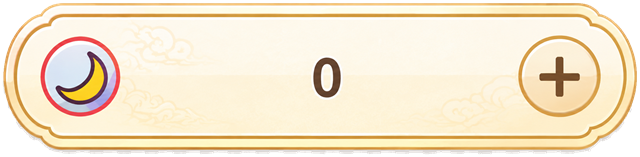
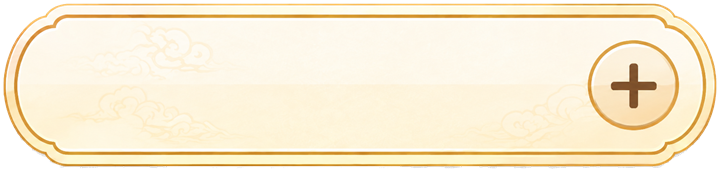
도감, 이벤트 1차 적용

diff --git a/deckViewer.js b/deckViewer.js
@@ -77,9 +77,9 @@
   ];
 
   const CODEX_SECTIONS = [
-    { id: "cards", tabId: "codexCards", label: "주문", title: "주문 도감", icon: "🃏" },
-    { id: "relics", tabId: "codexRelics", label: "법구", title: "법구 도감", icon: "🏺" },
-    { id: "potions", tabId: "codexPotions", label: "약병", title: "약병 도감", icon: "🧪" },
+    { id: "cards", tabId: "codexCards", label: "주문", title: "주문 도감", icon: "🃏", image: "assets/ui_buttons/codex_cards.png" },
+    { id: "relics", tabId: "codexRelics", label: "법구", title: "법구 도감", icon: "🏺", image: "assets/ui_buttons/codex_relics.png" },
+    { id: "potions", tabId: "codexPotions", label: "약병", title: "약병 도감", icon: "🧪", image: "assets/ui_buttons/codex_potions.png" },
   ];
 
   function initDeckViewer(){
@@ -344,19 +344,25 @@
       ".deck-viewer.pick-mode .deck-viewer-card.pick-disabled{filter:grayscale(.8) opacity(.45);cursor:not-allowed;}" +
       ".deck-viewer.pick-mode .deck-viewer-card.pick-disabled:hover,.deck-viewer.pick-mode .deck-viewer-card.pick-disabled:focus-visible{transform:none;box-shadow:0 .5cqh 1.1cqh rgba(40,70,120,.18);}" +
       ".deck-viewer.pick-mode .deck-viewer-card.pick-selected{box-shadow:0 0 0 .32cqh var(--c-gold),0 .9cqh 1.8cqh rgba(40,70,120,.28);}" +
+      ".deck-viewer-pick-footer[hidden]{display:none!important;}" +
       ".deck-viewer-pick-footer{flex:none;display:flex;align-items:center;justify-content:flex-end;gap:1cqw;padding-top:1cqh;}" +
       ".deck-viewer-pick-help{flex:1;color:var(--c-ink-soft);font-size:1.55cqh;font-weight:800;}" +
       ".deck-viewer-pick-confirm{min-width:11cqw;height:4.6cqh;border-radius:1cqh;border:.22cqh solid var(--c-gold);background:linear-gradient(180deg,#fff8d9,#ffe59a);color:#7a5510;font:inherit;font-size:1.8cqh;font-weight:900;cursor:pointer;}" +
       ".deck-viewer-pick-confirm:disabled{filter:grayscale(.6);opacity:.55;cursor:not-allowed;}" +
+      ".deck-viewer-close,.card-detail-close{background:transparent url(\"assets/ui_buttons/close.png\") center/100% 100% no-repeat;border:0;border-radius:0;color:transparent;font-size:0;box-shadow:none;}" +
       ".deck-viewer.codex-mode{z-index:240;}" +
+      ".deck-viewer.codex-home-mode .deck-viewer-panel{width:min(64cqw,92cqh);aspect-ratio:2.12;max-height:49cqh;background:transparent url(\"assets/ui_panels/codex_popup_frame.png\") center/100% 100% no-repeat;border:0;border-radius:0;box-shadow:0 1.4cqh 2.8cqh rgba(0,0,0,.22);padding:3.6cqh 3.6cqw 3.2cqh;}" +
+      ".deck-viewer.codex-home-mode .deck-viewer-head{border-bottom:0;padding-bottom:.2cqh;}" +
       ".codex-section-tabs{display:none;gap:.8cqw;margin:0 0 1.1cqh;}" +
       ".codex-section-tab{height:4.2cqh;min-width:8.5cqw;border-radius:1cqh;border:.2cqh solid var(--c-panel-line);background:rgba(255,255,255,.78);color:var(--c-ink);font-size:1.75cqh;font-weight:900;cursor:pointer;}" +
       ".codex-section-tab.active{background:linear-gradient(180deg,#fff8db,#ffe8a6);border-color:var(--c-gold);color:#79530c;}" +
-      ".codex-home-grid{display:none;grid-template-columns:repeat(3,minmax(0,1fr));gap:1.4cqw;min-height:37cqh;align-items:center;}" +
-      ".codex-home-card{height:29cqh;border-radius:1.2cqh;border:.28cqh solid var(--c-panel-line);background:linear-gradient(180deg,rgba(255,255,255,.9),rgba(233,244,255,.86));box-shadow:0 .7cqh 1.5cqh rgba(40,70,120,.16);display:flex;flex-direction:column;align-items:center;justify-content:center;gap:1.6cqh;color:var(--c-ink);font:inherit;font-weight:900;cursor:pointer;}" +
-      ".codex-home-card:hover,.codex-home-card:focus-visible{transform:translateY(-.5cqh);box-shadow:0 1cqh 2cqh rgba(40,70,120,.24);outline:none;border-color:var(--c-gold);}" +
-      ".codex-home-icon{width:13cqh;height:13cqh;border-radius:2cqh;display:grid;place-items:center;background:linear-gradient(160deg,#fff7d7,#dff3ff);border:.22cqh solid #d6e6f5;font-size:7.5cqh;}" +
-      ".codex-home-label{font-size:2.4cqh;}" +
+      ".codex-home-grid{display:none;grid-template-columns:repeat(3,minmax(0,1fr));gap:1cqw;min-height:28cqh;align-items:center;transform:translateY(1.4cqh);}" +
+      ".codex-home-card{height:23.5cqh;border:0;background:transparent;box-shadow:none;display:block;padding:0;color:var(--c-ink);font:inherit;cursor:pointer;}" +
+      ".codex-home-card:hover,.codex-home-card:focus-visible{transform:translateY(-.5cqh);filter:brightness(1.04) drop-shadow(0 1cqh 1.4cqh rgba(80,55,15,.22));outline:none;}" +
+      ".codex-home-image{width:100%;height:100%;object-fit:contain;display:block;user-select:none;-webkit-user-drag:none;}" +
+      ".codex-home-card[data-codex-section='cards'] .codex-home-image{transform:scale(1.02);}" +
+      ".codex-home-card[data-codex-section='relics'] .codex-home-image{transform:scale(1.11);}" +
+      ".codex-home-card[data-codex-section='potions'] .codex-home-image{transform:scale(1.12);}" +
       ".deck-viewer-filter.disabled{opacity:.45;pointer-events:none;}" +
       ".codex-item-card .cost,.codex-item-card .type{display:none;}" +
       ".codex-item-card .art{height:16cqh;font-size:8cqh;background:linear-gradient(160deg,#fff7d7,#dff3ff);}" +
@@ -369,7 +375,7 @@
       ".card-detail-backdrop{position:absolute;inset:0;z-index:2;display:none;place-items:center;background:rgba(35,55,85,.34);border-radius:var(--r);backdrop-filter:blur(2px);}" +
       ".card-detail-backdrop.show{display:grid;}" +
       ".card-detail-panel{position:relative;width:min(72cqw,104cqh);max-height:70cqh;overflow:visible;background:linear-gradient(180deg,#fffdf6,#eef8ff);border:.35cqh solid var(--c-gold);border-radius:1.4cqh;box-shadow:0 1.6cqh 3.2cqh rgba(20,35,60,.3);padding:2.4cqh 2.2cqw;}" +
-      ".card-detail-close{position:absolute;top:1cqh;right:1cqh;width:4cqh;height:4cqh;border-radius:50%;border:.2cqh solid var(--c-panel-line);background:#fff;color:var(--c-ink);font-size:2.8cqh;font-weight:900;line-height:1;cursor:pointer;}" +
+      ".card-detail-close{position:absolute;top:1cqh;right:1cqh;width:4cqh;height:4cqh;background:transparent url(\"assets/ui_buttons/close.png\") center/100% 100% no-repeat;border:0;border-radius:0;color:transparent;font-size:0;font-weight:900;line-height:1;cursor:pointer;box-shadow:none;}" +
       ".card-detail-spread{display:grid;grid-template-columns:minmax(18cqh,24cqw) minmax(0,1fr);gap:2cqw;align-items:stretch;}" +
       ".card-detail-front{display:flex;flex-direction:column;align-items:center;justify-content:center;gap:1.2cqh;min-height:46cqh;}" +
       ".card-detail-back{min-height:46cqh;border-radius:1.2cqh;background:linear-gradient(150deg,rgba(255,255,255,.78),rgba(235,248,255,.74));border:.22cqh solid var(--c-panel-line);box-shadow:inset 0 0 0 .35cqh rgba(255,255,255,.36);padding:2cqh 1.6cqw 1.6cqh;display:flex;flex-direction:column;}" +
@@ -429,6 +435,7 @@
     viewerMode = "deck";
     if(tabId) activeTab = tabId;
     els.overlay.classList.remove("codex-mode");
+    els.overlay.classList.remove("codex-home-mode");
     els.title.textContent = "보유 주문";
     els.tabsWrap.style.display = "";
     if(els.codexTabsWrap) els.codexTabsWrap.style.display = "none";
@@ -462,6 +469,7 @@
       };
 
       els.overlay.classList.remove("codex-mode");
+      els.overlay.classList.remove("codex-home-mode");
       els.overlay.classList.add("pick-mode");
       els.title.textContent = pickMode.title;
       els.tabsWrap.style.display = "none";
@@ -490,12 +498,15 @@
     if(!els) return;
     viewerMode = "codexHome";
     els.overlay.classList.add("codex-mode");
+    els.overlay.classList.add("codex-home-mode");
     els.title.textContent = "도감";
     els.tabsWrap.style.display = "none";
     if(els.codexTabsWrap) els.codexTabsWrap.style.display = "none";
     if(els.codexHome) els.codexHome.style.display = "grid";
     if(els.controls) els.controls.style.display = "none";
     if(els.grid) els.grid.style.display = "none";
+    if(els.pickFooter) els.pickFooter.hidden = true;
+    if(els.pickConfirm) els.pickConfirm.disabled = true;
     detailEntries = [];
     closeCardDetail();
     els.overlay.classList.add("show");
@@ -510,12 +521,15 @@
     codexSection = section.id;
     activeTab = section.tabId;
     els.overlay.classList.add("codex-mode");
+    els.overlay.classList.remove("codex-home-mode");
     els.title.textContent = section.title;
     els.tabsWrap.style.display = "none";
     if(els.codexTabsWrap) els.codexTabsWrap.style.display = "flex";
     if(els.codexHome) els.codexHome.style.display = "none";
     if(els.controls) els.controls.style.display = "";
     if(els.grid) els.grid.style.display = "";
+    if(els.pickFooter) els.pickFooter.hidden = true;
+    if(els.pickConfirm) els.pickConfirm.disabled = true;
     renderDeckViewer();
     els.overlay.classList.add("show");
     els.overlay.setAttribute("aria-hidden", "false");
@@ -532,6 +546,7 @@
     els.overlay.classList.remove("show");
     els.overlay.setAttribute("aria-hidden", "true");
     els.overlay.classList.remove("codex-mode");
+    els.overlay.classList.remove("codex-home-mode");
     viewerMode = "deck";
   }
 
@@ -708,9 +723,8 @@
   }
 
   function codexHomeButtonHtml(section){
-    return '<button type="button" class="codex-home-card" data-codex-section="' + escapeAttr(section.id) + '">' +
-      '<span class="codex-home-icon" aria-hidden="true">' + escapeHtml(section.icon) + '</span>' +
-      '<span class="codex-home-label">' + escapeHtml(section.title) + '</span>' +
+    return '<button type="button" class="codex-home-card" data-codex-section="' + escapeAttr(section.id) + '" aria-label="' + escapeAttr(section.title) + '">' +
+      '<img class="codex-home-image" src="' + escapeAttr(section.image) + '" alt="" aria-hidden="true">' +
     '</button>';
   }
 

diff --git a/eventNode.css b/eventNode.css
@@ -100,31 +100,37 @@
 .event-story p{ margin:0; font-size:1.4cqh; font-weight:700; color:var(--ev-ink-soft); line-height:1.4; }
 
 /* ── 선택지 ────────────────────────────────────────────────────────────── */
-.event-choices{ display:flex; flex-direction:column; gap:.65cqh; margin-top:.2cqh; }
+.event-choices{ display:flex; flex-direction:column; gap:.85cqh; margin-top:.2cqh; }
 .event-choice{
-  display:flex; align-items:center; gap:1.1cqw; padding:.85cqh 1.2cqw;
-  background:rgba(255,255,255,.7); border:.2cqh solid var(--ev-beige-deep); border-radius:1.1cqh;
+  position:relative;
+  min-height:7.8cqh;
+  display:flex; align-items:center; gap:1.1cqw; padding:1.25cqh 2.6cqw 1.25cqh 12.4cqh;
+  background:transparent url("assets/ui/event_choice_panel.png") center/100% 100% no-repeat;
+  border:0; border-radius:0;
   cursor:pointer; font:inherit; color:var(--ev-ink); text-align:left;
-  transition:transform .14s ease, border-color .14s ease, box-shadow .14s ease;
+  filter:drop-shadow(0 .35cqh .55cqh rgba(90,65,25,.12));
+  transition:transform .14s ease, filter .14s ease;
 }
-.event-choice:hover{ transform:translateY(-.3cqh); border-color:var(--ev-gold); box-shadow:0 .6cqh 1.2cqh rgba(90,65,25,.2); }
+.event-choice:hover{ transform:translateY(-.3cqh); filter:drop-shadow(0 .65cqh .9cqh rgba(90,65,25,.22)); }
 .event-choice:disabled,
 .event-choice.disabled{
   cursor:not-allowed; opacity:.58; filter:saturate(.7);
 }
 .event-choice:disabled:hover,
 .event-choice.disabled:hover{
-  transform:none; border-color:var(--ev-beige-deep); box-shadow:none;
+  transform:none; filter:drop-shadow(0 .35cqh .55cqh rgba(90,65,25,.12));
 }
 .event-choice-icon{
-  flex:none; width:3.8cqh; height:3.8cqh; border-radius:50%; display:grid; place-items:center;
-  font-size:1.8cqh; background:linear-gradient(160deg,#fff8e6,#f0dcb0); border:.16cqh solid var(--ev-beige-deep);
+  position:absolute; left:6.4cqh; top:50%; transform:translate(-50%, -50%);
+  width:4.3cqh; height:4.3cqh; border-radius:50%; display:grid; place-items:center;
+  font-size:2.15cqh; background:transparent; border:0;
+  pointer-events:none;
 }
-.event-choice-body{ flex:1; min-width:0; display:flex; flex-direction:column; gap:.15cqh; }
-.event-choice-label{ font-size:1.5cqh; font-weight:900; }
-.event-choice-desc{ font-size:1.1cqh; font-weight:700; color:var(--ev-ink-soft); }
+.event-choice-body{ flex:1; min-width:0; display:flex; flex-direction:column; gap:.15cqh; padding-right:1cqw; }
+.event-choice-label{ font-size:1.55cqh; font-weight:900; }
+.event-choice-desc{ font-size:1.08cqh; font-weight:700; color:var(--ev-ink-soft); }
 .event-choice-lock{ font-size:1.05cqh; font-weight:900; color:var(--ev-red-deep); }
-.event-outcomes{ flex:none; display:flex; flex-direction:column; align-items:flex-end; gap:.25cqh; max-width:34cqw; }
+.event-outcomes{ flex:none; display:flex; flex-direction:column; align-items:flex-end; gap:.25cqh; max-width:28cqw; margin-left:auto; padding-right:1cqw; }
 .event-outcome-chip{
   display:inline-flex; align-items:center; gap:.3cqw; padding:.32cqh .7cqw; border-radius:.9cqh;
   font-size:1.02cqh; font-weight:800; white-space:nowrap; border:.14cqh solid transparent;
@@ -186,7 +192,7 @@
 @media (max-width:900px){
   .event-panel-wrap{ width:100%; min-width:0; max-width:none; margin-left:0; }
   .event-menu-btn{ width:6.4cqh; }
-  .event-choice{ flex-wrap:wrap; }
+  .event-choice{ flex-wrap:wrap; padding-left:6.8cqw; padding-right:2cqw; }
   .event-outcomes{ max-width:100%; align-items:flex-start; }
   .event-cards{ grid-template-columns:1fr; }
 }

diff --git a/tutorialSystem.js b/tutorialSystem.js
@@ -333,6 +333,24 @@
         font-size:30px;
         font-weight:900;
       }
+      .tutorial-guide-button[data-tutorial-skip-confirm-button],
+      .tutorial-guide-button[data-tutorial-skip-back]{
+        min-height:76px;
+        border:0;
+        border-radius:0;
+        background-color:transparent;
+        background-position:center;
+        background-repeat:no-repeat;
+        background-size:100% 100%;
+        color:transparent;
+        font-size:0;
+      }
+      .tutorial-guide-button[data-tutorial-skip-confirm-button]{
+        background-image:url("assets/ui_buttons/tutorial_yes.png");
+      }
+      .tutorial-guide-button[data-tutorial-skip-back]{
+        background-image:url("assets/ui_buttons/tutorial_no.png");
+      }
       .tutorial-guide-confirm[hidden],
       .tutorial-guide-main[hidden]{
         display:none;

diff --git a/wallet.css b/wallet.css
@@ -12,9 +12,9 @@
   align-items:center;
   justify-content:center;
   gap:0;
-  width:24cqh;
+  width:24.7cqh;
   height:5.9cqh;
-  padding:0 5.2cqh 0 5.4cqh;
+  padding:0 5.45cqh 0 4.65cqh;
   border:0;
   border-radius:0;
   background:transparent url("assets/ui/start_menu/moon_wallet.png") center/100% 100% no-repeat;
@@ -40,7 +40,17 @@
 }
 
 .start-moon-icon{
-  display:none;
+  position:absolute;
+  left:2.25cqh;
+  top:50%;
+  transform:translateY(-50%);
+  width:3.25cqh;
+  height:3.25cqh;
+  display:block;
+  background:url("assets/ui/resource_icons/moon_shard.png") center/contain no-repeat;
+  font-size:0;
+  line-height:1;
+  pointer-events:none;
 }
 
 .start-moon-count{
@@ -48,7 +58,7 @@
   min-width:0;
   color:#5b341d;
   text-align:center;
-  font-size:2.45cqh;
+  font-size:2.35cqh;
   font-weight:900;
   letter-spacing:0;
   white-space:nowrap;

diff --git a/style.css b/style.css
@@ -144,8 +144,8 @@ html,body{height:100%; background:#0c1422; overflow:hidden;
 .start-mailbox-button:active{transform:scale(.96);}
 .start-mailbox-button[hidden]{display:none;}
 .start-mailbox-button{
-  width:11.5cqh;
-  height:12.2cqh;
+  width:10.8cqh;
+  height:12.05cqh;
   min-height:0;
   background:transparent url("assets/ui/start_menu/mailbox.png") center/contain no-repeat;
 }